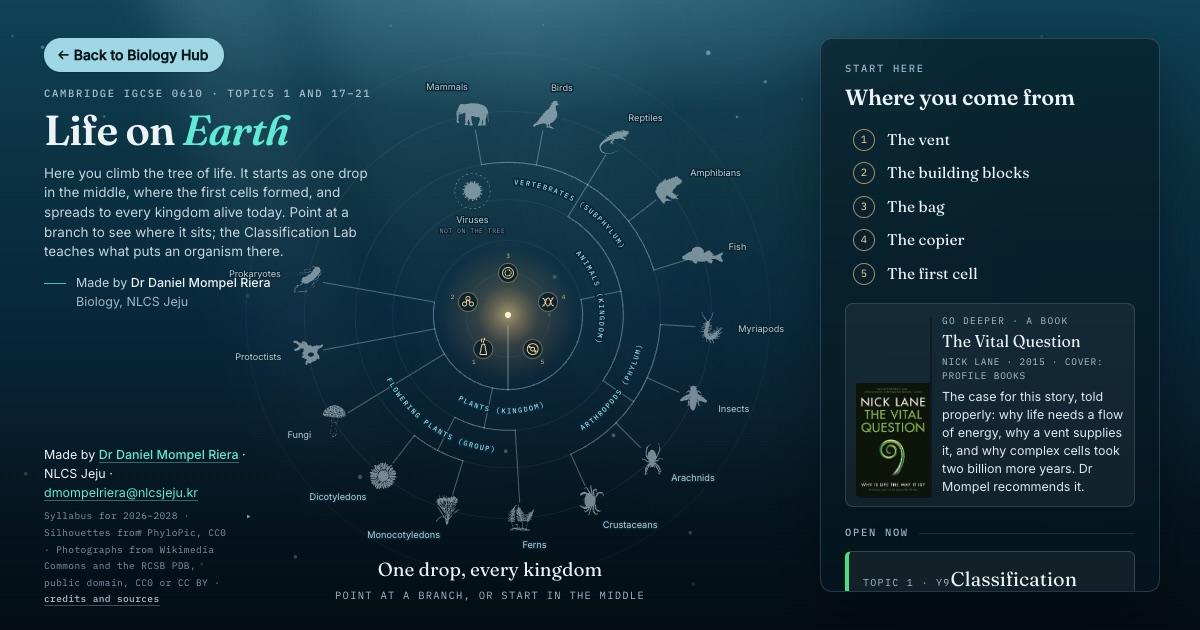
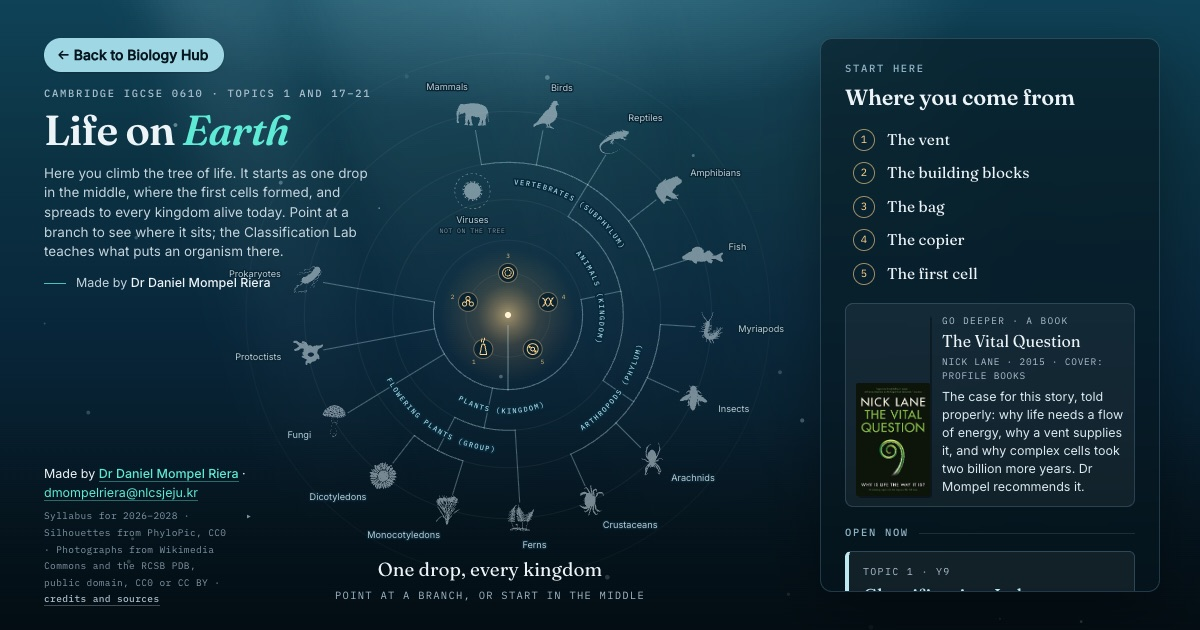
My name only after "Made by": the school is named on the front door
"Made by Dr Daniel Mompel Riera", with nothing after it, on the page and in the README; the hidden copyright line
names me only. The Biology Hub's front door is the one place that says I am a Biology teacher at NLCS Jeju and that
this is my own website, not an official NLCS Jeju one.

Changed region(s): [[0.0308, 0.6937, 0.2158, 0.7841], [0.6783, 0.8746, 0.8942, 0.9349], [0.0617, 0.4524, 0.1542, 0.4825]]

diff --git a/index.html b/index.html
@@ -5,7 +5,7 @@
 <meta name="viewport" content="width=device-width,initial-scale=1,viewport-fit=cover">
 <title>Life on Earth Hub — IGCSE Biology 0610</title>
 <meta name="author" content="Dr Daniel Mompel Riera">
-<meta name="copyright" content="Dr Daniel Mompel Riera, NLCS Jeju">
+<meta name="copyright" content="Dr Daniel Mompel Riera">
 <meta name="theme-color" content="#082433">
 <meta name="description" content="The tree of life for Cambridge IGCSE Biology 0610: where the first cells came from, the five kingdoms and the groups inside them, and the labs for topics 1 and 17 to 21. Point at a branch.">
 <meta property="og:type" content="website">
@@ -39,7 +39,7 @@
   <p class="lede">Here you climb the tree of life. It starts as one drop in the middle, where the first cells formed,
      and spreads to every kingdom alive today. Point at a branch to see where it sits; the Classification Lab
      teaches what puts an organism there.</p>
-  <p class="maker">Made by <strong>Dr Daniel Mompel Riera</strong><span class="maker__at">Biology, NLCS Jeju</span></p>
+  <p class="maker">Made by <strong>Dr Daniel Mompel Riera</strong></p>
 </header>
 
 <!-- ============ the tree ============ -->
@@ -4591,7 +4591,7 @@ c-99 92 -200 185 -224 208 l-44 40 253 160 254 159 168 7 c185 7 248 22 289
 <aside class="card" id="card" aria-live="polite"></aside>
 
 <footer class="foot">
-  <p class="byline">Made by <a class="by-me" href="https://github.com/Mompel226" target="_blank" rel="noopener" title="Who made this — and everything else that is free to use"><strong>Dr Daniel Mompel Riera</strong></a> · NLCS Jeju · <a href="mailto:dmompelriera@nlcsjeju.kr">dmompelriera@nlcsjeju.kr</a></p>
+  <p class="byline">Made by <a class="by-me" href="https://github.com/Mompel226" target="_blank" rel="noopener" title="Who made this — and everything else that is free to use"><strong>Dr Daniel Mompel Riera</strong></a> · <a href="mailto:dmompelriera@nlcsjeju.kr">dmompelriera@nlcsjeju.kr</a></p>
   <details class="colophon" id="credits">
     <summary>Syllabus for 2026–2028 · Silhouettes from PhyloPic, CC0 · Photographs from Wikimedia Commons and the RCSB PDB, public domain, CC0 or CC BY · <b>credits and sources</b></summary>
     <p id="creditsList"></p>

diff --git a/README.md b/README.md
@@ -17,7 +17,7 @@ Start in the middle and it tells you where you come from.
 ![No sign-up](https://img.shields.io/badge/students-no_sign--up_needed-6FA287)
 ![Silhouettes CC0](https://img.shields.io/badge/silhouettes-PhyloPic_CC0-7c4dc0)
 
-by **Dr Daniel Mompel Riera** · NLCS Jeju
+by **Dr Daniel Mompel Riera**
 
 </div>
 
